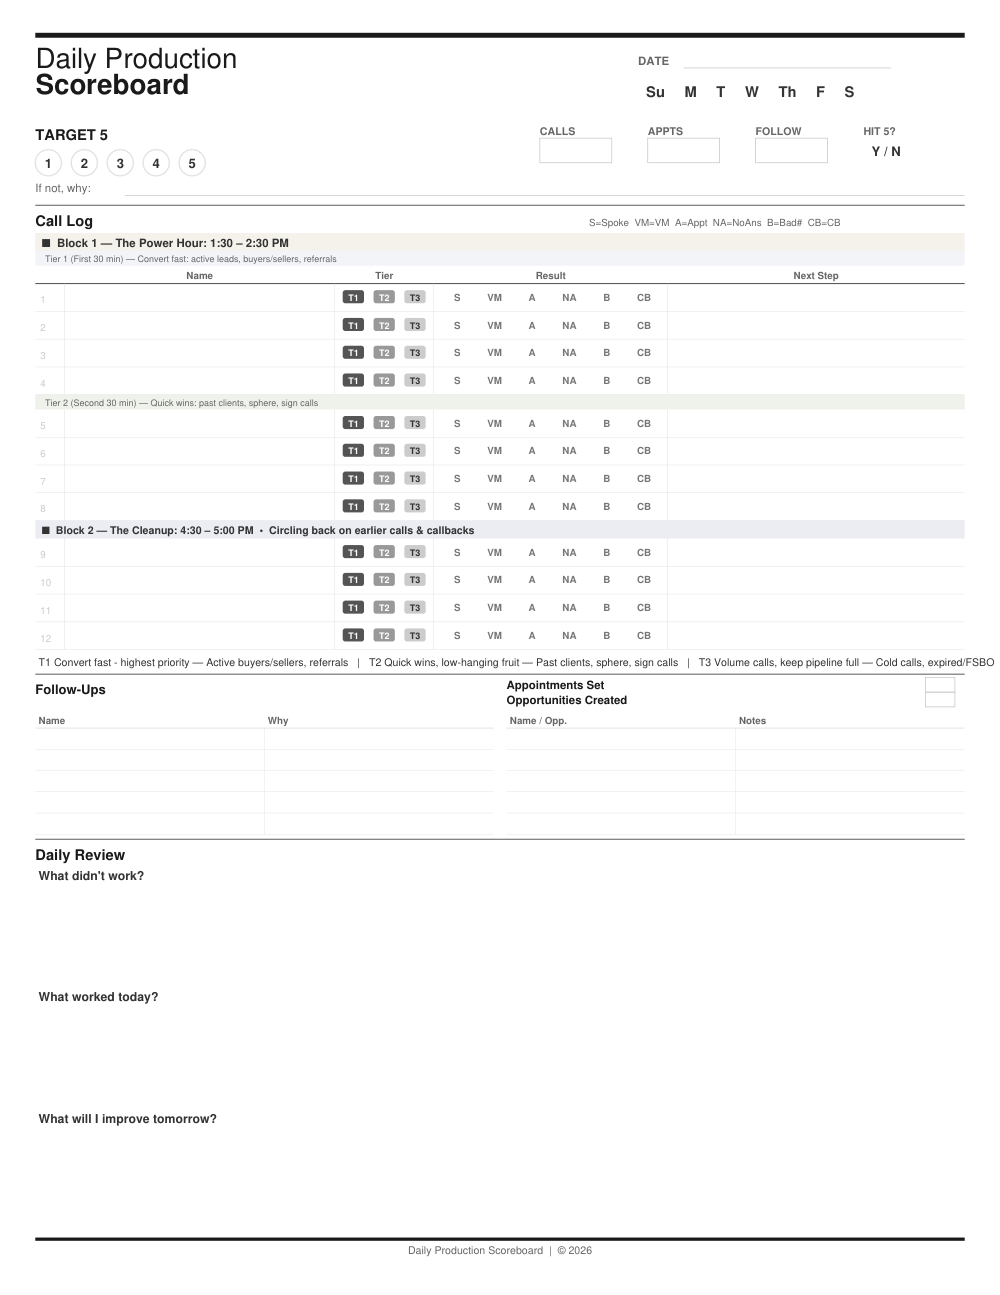
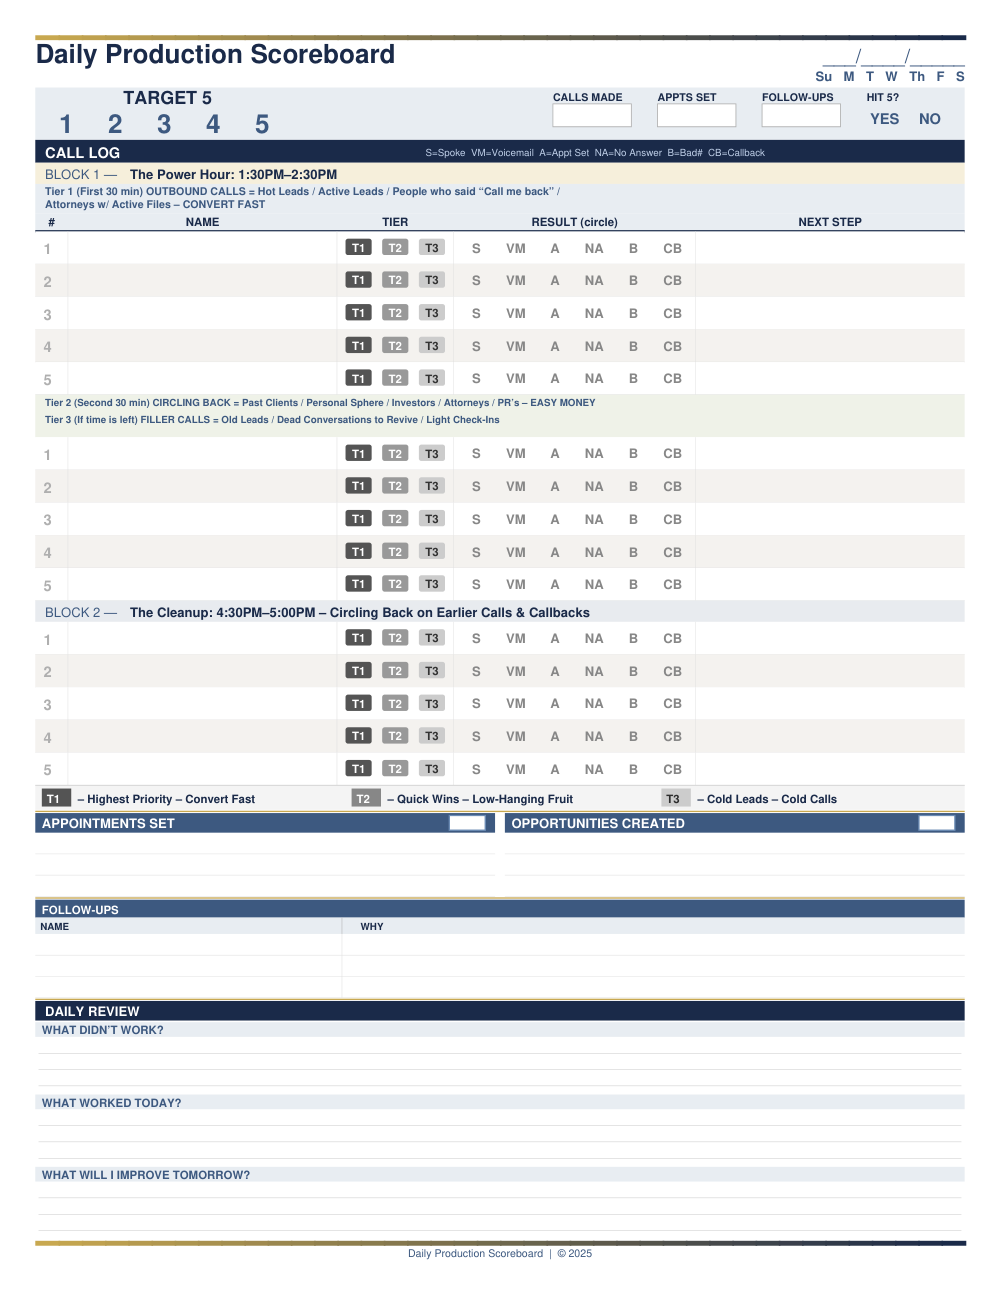
v8: Print-first redesign per Matthew feedback - Single-line title, handwrite date field - No circles on TARGET 5 numbers (user hand-circles) - 5 rows per block with own 1-5 numbering - Tier 1/2/3 exact descriptions from Matthew - Tier 2+3 combined in shaded header - Bold tier definitions (Highest Pr

diff --git a/index.html b/index.html
@@ -137,7 +137,7 @@
             <!-- Header -->
             <header class="page-header">
                 <div class="header-left">
-                    <h1 class="page-title">DAILY PRODUCTION<br>SCOREBOARD</h1>
+                    <h1 class="page-title">Daily Production Scoreboard</h1>
                 </div>
                 <div class="header-right">
                     <div class="date-field">
@@ -218,7 +218,7 @@
                     ⏰ <strong>BLOCK 1 — The Power Hour:</strong> 1:30 – 2:30 PM
                 </div>
                 <div class="tier-sub-header tier1-sub">
-                    Tier 1 (First 30 min) — Convert fast: active leads, buyers/sellers, referrals
+                    Tier 1 (First 30 min) OUTBOUND CALLS = Hot Leads / Active Leads / People who said "Call me back" / Attorneys w/ Active Files — CONVERT FAST
                 </div>
                 <table class="call-table">
                     <thead>
@@ -232,8 +232,9 @@
                     </thead>
                     <tbody id="call-log-body-t1"></tbody>
                 </table>
-                <div class="tier-sub-header tier2-sub">
-                    Tier 2 (Second 30 min) — Quick wins: past clients, sphere, sign calls
+                <div class="tier-sub-header tier23-sub">
+                    <div>Tier 2 (Second 30 min) CIRCLING BACK = Past Clients / Personal Sphere / Investors / Attorneys / PR's — EASY MONEY</div>
+                    <div>Tier 3 (If time is left) FILLER CALLS = Old Leads / Dead Conversations to Revive / Light Check-Ins</div>
                 </div>
                 <table class="call-table">
                     <thead>
@@ -268,24 +269,23 @@
 
             <!-- TIER REFERENCE KEY -->
             <div class="tier-reference-key">
-                <div class="tier-ref-title">TIER REFERENCE</div>
                 <div class="tier-ref-items">
                     <div class="tier-ref-item">
                         <span class="tier-ref-badge t1">T1</span>
                         <div class="tier-ref-text">
-                            <strong>Convert fast - highest priority</strong>
+                            <strong>Highest Priority — Convert Fast</strong>
                         </div>
                     </div>
                     <div class="tier-ref-item">
                         <span class="tier-ref-badge t2">T2</span>
                         <div class="tier-ref-text">
-                            <strong>Quick wins, low-hanging fruit</strong>
+                            <strong>Quick Wins — Low-Hanging Fruit</strong>
                         </div>
                     </div>
                     <div class="tier-ref-item">
                         <span class="tier-ref-badge t3">T3</span>
                         <div class="tier-ref-text">
-                            <strong>Volume calls, keep pipeline full</strong>
+                            <strong>Cold Leads — Cold Calls</strong>
                         </div>
                     </div>
                 </div>
@@ -293,24 +293,30 @@
 
             <div class="accent-line thin"></div>
 
-            <!-- FOLLOW-UPS + APPOINTMENTS -->
+            <!-- FOLLOW-UPS + APPOINTMENTS + OPPORTUNITIES -->
             <section class="dual-section">
                 <div class="dual-left">
                     <div class="section-header slate compact">FOLLOW-UPS</div>
                     <table class="mini-table">
-                        <thead><tr><th style="width:50%">NAME</th><th style="width:50%">WHY / NOTES</th></tr></thead>
+                        <thead><tr><th style="width:50%">NAME</th><th style="width:50%">WHY</th></tr></thead>
                         <tbody id="followup-body"></tbody>
                     </table>
                 </div>
-                <div class="dual-right">
-                    <div class="section-header slate compact dual-header-stack">
-                        <div class="dual-header-top">APPOINTMENTS SET<span class="dual-header-count" contenteditable="true" data-field="appts_set_count"></span></div>
-                        <div class="dual-header-bottom">OPPORTUNITIES CREATED<span class="dual-header-count" contenteditable="true" data-field="opps_created_count"></span></div>
+                <div class="dual-right dual-right-split">
+                    <div class="dual-col">
+                        <div class="section-header slate compact">APPOINTMENTS SET<span class="dual-header-count" contenteditable="true" data-field="appts_set_count"></span></div>
+                        <table class="mini-table">
+                            <thead><tr><th>NAME</th></tr></thead>
+                            <tbody id="appt-body"></tbody>
+                        </table>
                     </div>
-                    <table class="mini-table">
-                        <thead><tr><th style="width:60%">NAME / OPP.</th><th style="width:40%">NOTES</th></tr></thead>
-                        <tbody id="appt-body"></tbody>
-                    </table>
+                    <div class="dual-col">
+                        <div class="section-header slate compact">OPPORTUNITIES CREATED<span class="dual-header-count" contenteditable="true" data-field="opps_created_count"></span></div>
+                        <table class="mini-table">
+                            <thead><tr><th>NAME</th></tr></thead>
+                            <tbody id="opps-body"></tbody>
+                        </table>
+                    </div>
                 </div>
             </section>
 
@@ -419,7 +425,7 @@
                     ⏰ <strong>Block 1 — The Power Hour:</strong> 1:30 – 2:30 PM
                 </div>
                 <div class="min-tier-sub-header min-tier1-sub">
-                    Tier 1 (First 30 min) — Convert fast: active leads, buyers/sellers, referrals
+                    Tier 1 (First 30 min) OUTBOUND CALLS = Hot Leads / Active Leads / People who said "Call me back" / Attorneys w/ Active Files — CONVERT FAST
                 </div>
                 <table class="min-call-table">
                     <thead>
@@ -433,8 +439,9 @@
                     </thead>
                     <tbody id="min-call-log-body-t1"></tbody>
                 </table>
-                <div class="min-tier-sub-header min-tier2-sub">
-                    Tier 2 (Second 30 min) — Quick wins: past clients, sphere, sign calls
+                <div class="min-tier-sub-header min-tier23-sub">
+                    <div>Tier 2 (Second 30 min) CIRCLING BACK = Past Clients / Personal Sphere / Investors / Attorneys / PR's — EASY MONEY</div>
+                    <div>Tier 3 (If time is left) FILLER CALLS = Old Leads / Dead Conversations to Revive / Light Check-Ins</div>
                 </div>
                 <table class="min-call-table">
                     <thead>
@@ -471,11 +478,11 @@
             <!-- Tier Reference Key (Minimal) -->
             <div class="min-tier-reference-key">
                 <div class="min-tier-ref-items">
-                    <span class="min-tier-ref-item"><strong>T1</strong> Convert fast - highest priority</span>
+                    <span class="min-tier-ref-item"><strong>T1</strong> Highest Priority — Convert Fast</span>
                     <span class="min-tier-ref-sep">│</span>
-                    <span class="min-tier-ref-item"><strong>T2</strong> Quick wins, low-hanging fruit</span>
+                    <span class="min-tier-ref-item"><strong>T2</strong> Quick Wins — Low-Hanging Fruit</span>
                     <span class="min-tier-ref-sep">│</span>
-                    <span class="min-tier-ref-item"><strong>T3</strong> Volume calls, keep pipeline full</span>
+                    <span class="min-tier-ref-item"><strong>T3</strong> Cold Leads — Cold Calls</span>
                 </div>
             </div>
 

diff --git a/script.js b/script.js
@@ -3,9 +3,10 @@
    15-row call log · Interactive data entry · Auto-save
    ============================================================ */
 
-const NUM_CALL_ROWS = 12;
-const NUM_FOLLOWUP_ROWS = 5;
-const NUM_APPT_ROWS = 5;
+const NUM_CALL_ROWS = 15;
+const NUM_FOLLOWUP_ROWS = 3;
+const NUM_APPT_ROWS = 3;
+const NUM_OPPS_ROWS = 3;
 
 let currentData = null;
 let currentDesign = 'executive';
@@ -18,15 +19,16 @@ document.addEventListener('DOMContentLoaded', async () => {
     datePicker.value = today;
     DataStore.setCurrentDate(today);
 
-    // Generate table rows for both designs (split into Block 1 T1, T2, Block 2)
-    generateCallLogBlock('call-log-body-t1', 'executive', 0, 4);
-    generateCallLogBlock('call-log-body-t2', 'executive', 4, 8);
-    generateCallLogBlock('call-log-body-b2', 'executive', 8, 12);
-    generateCallLogBlock('min-call-log-body-t1', 'minimal', 0, 4);
-    generateCallLogBlock('min-call-log-body-t2', 'minimal', 4, 8);
-    generateCallLogBlock('min-call-log-body-b2', 'minimal', 8, 12);
+    // Generate table rows for both designs (5 rows per block, own numbering)
+    generateCallLogBlock('call-log-body-t1', 'executive', 0, 5);
+    generateCallLogBlock('call-log-body-t2', 'executive', 5, 10);
+    generateCallLogBlock('call-log-body-b2', 'executive', 10, 15);
+    generateCallLogBlock('min-call-log-body-t1', 'minimal', 0, 5);
+    generateCallLogBlock('min-call-log-body-t2', 'minimal', 5, 10);
+    generateCallLogBlock('min-call-log-body-b2', 'minimal', 10, 15);
     generateMiniTable('followup-body', NUM_FOLLOWUP_ROWS, 'followup', 'executive');
     generateMiniTable('appt-body', NUM_APPT_ROWS, 'appt', 'executive');
+    generateMiniTable('opps-body', NUM_OPPS_ROWS, 'opps', 'executive');
     generateMiniTable('min-followup-body', NUM_FOLLOWUP_ROWS, 'followup', 'minimal');
     generateMiniTable('min-appt-body', NUM_APPT_ROWS, 'appt', 'minimal');
 
@@ -56,10 +58,11 @@ function generateCallLogBlock(tbodyId, style, startIdx, endIdx) {
     for (let i = startIdx; i < endIdx; i++) {
         const tr = document.createElement('tr');
         tr.dataset.rowIndex = i;
+        const displayNum = (i % 5) + 1;
 
         if (style === 'executive') {
             tr.innerHTML = `
-                <td class="row-num">${i + 1}</td>
+                <td class="row-num">${displayNum}</td>
                 <td contenteditable="true" data-field="call_name" data-row="${i}"></td>
                 <td class="tier-codes">
                     <span class="code-pill tier-pill clickable" data-field="call_tier" data-row="${i}" data-value="T1">T1</span>
@@ -78,7 +81,7 @@ function generateCallLogBlock(tbodyId, style, startIdx, endIdx) {
             `;
         } else {
             tr.innerHTML = `
-                <td style="text-align:center;color:#A0A0A0;font-size:7px;">${i + 1}</td>
+                <td style="text-align:center;color:#A0A0A0;font-size:7px;">${displayNum}</td>
                 <td contenteditable="true" data-field="call_name" data-row="${i}"></td>
                 <td class="tier-codes min-tier-codes">
                     <span class="code-pill min-pill-code tier-pill clickable" data-field="call_tier" data-row="${i}" data-value="T1">1</span>
@@ -107,12 +110,27 @@ function generateMiniTable(tbodyId, count, type, style) {
 
     for (let i = 0; i < count; i++) {
         const tr = document.createElement('tr');
-        const field1 = type === 'followup' ? 'fu_name' : 'appt_name';
-        const field2 = type === 'followup' ? 'fu_why' : 'appt_details';
-        tr.innerHTML = `
-            <td contenteditable="true" data-field="${field1}" data-row="${i}"></td>
-            <td contenteditable="true" data-field="${field2}" data-row="${i}"></td>
-        `;
+        if (type === 'followup') {
+            tr.innerHTML = `
+                <td contenteditable="true" data-field="fu_name" data-row="${i}"></td>
+                <td contenteditable="true" data-field="fu_why" data-row="${i}"></td>
+            `;
+        } else if (type === 'appt') {
+            tr.innerHTML = `
+                <td contenteditable="true" data-field="appt_name" data-row="${i}"></td>
+            `;
+        } else if (type === 'opps') {
+            tr.innerHTML = `
+                <td contenteditable="true" data-field="opps_name" data-row="${i}"></td>
+            `;
+        } else {
+            const field1 = 'appt_name';
+            const field2 = 'appt_details';
+            tr.innerHTML = `
+                <td contenteditable="true" data-field="${field1}" data-row="${i}"></td>
+                <td contenteditable="true" data-field="${field2}" data-row="${i}"></td>
+            `;
+        }
         tbody.appendChild(tr);
     }
 }

diff --git a/styles.css b/styles.css
@@ -429,11 +429,11 @@ body {
 .block-1-header { background: #F5F0E0; }
 .block-2-header { background: #E8EBF0; }
 .tier-sub-header {
-    font-size: 7px; padding: 2px 10px; font-style: italic;
-    color: #667788;
+    font-size: 6.5px; padding: 3px 10px; font-weight: 700;
+    color: #667788; line-height: 1.5;
 }
 .tier1-sub { background: #E8EDF3; }
-.tier2-sub { background: #EFF2E8; }
+.tier23-sub { background: #EFF2E8; }
 
 /* Minimal block headers */
 .min-block-header {
@@ -443,11 +443,11 @@ body {
 .min-block-1 { background: #F5F3EC; }
 .min-block-2 { background: #ECEEF2; }
 .min-tier-sub-header {
-    font-size: 6.5px; padding: 2px 8px; font-style: italic;
-    color: #667788;
+    font-size: 6.5px; padding: 2px 8px; font-weight: 700;
+    color: #667788; line-height: 1.5;
 }
 .min-tier1-sub { background: #F2F4F8; }
-.min-tier2-sub { background: #F0F3EC; }
+.min-tier23-sub { background: #F0F3EC; }
 
 /* ─── TIER REFERENCE KEY ─── */
 .tier-reference-key {
@@ -482,6 +482,8 @@ body {
 /* ─── DUAL SECTION ─── */
 .dual-section { display: flex; gap: 8px; margin: 2px 0; flex-shrink: 0; }
 .dual-left, .dual-right { flex: 1; }
+.dual-right-split { display: flex; gap: 4px; }
+.dual-right-split .dual-col { flex: 1; }
 .dual-header-stack {
     display: flex; flex-direction: column; gap: 0; padding: 2px 10px !important;
 }
